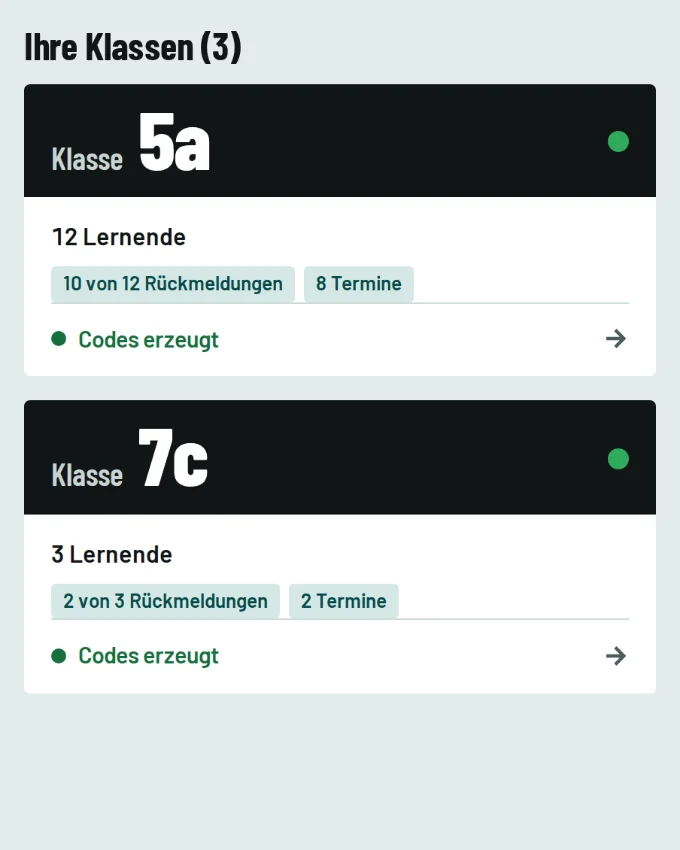
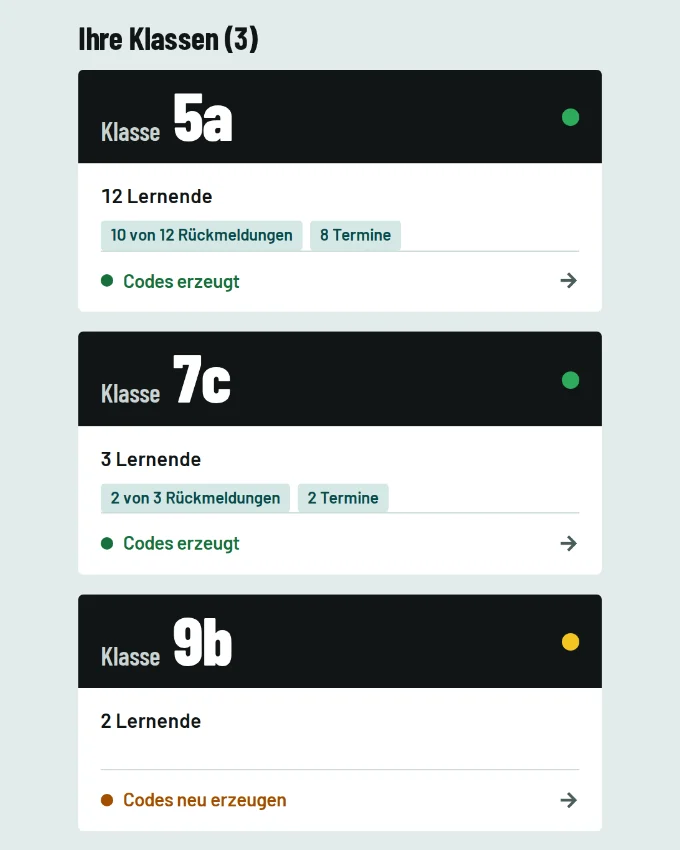
Karussell: ganze Bausteine statt Anschnitte
Kalender, Klassenübersicht und Tabelle der Lernenden werden als ganzer Baustein
aufgenommen (Kalenderkarte; alle drei Klassenschilder samt Überschrift; die ersten
beiden Einträge der Tabelle) und mittig auf die Farbe ihres Randes gesetzt
(toWebp-Modus „center“) – keine leeren Restflächen oder halben Einträge mehr.
Der Ausschnitt des Elternbriefs im Karussell zeigt die ganze Textbreite, damit der
gelbe Kasten vollständig bleibt; das Feld über dem Termin-Schlüssel deckt dessen
ersten Buchstaben ganz ab. Alternativtext des Kalenders an das Bild angepasst.

Claude-Session: https://claude.ai/code/session_0158mRK3KkWGA5jcqo5STFkn

diff --git a/js/views/start.js b/js/views/start.js
@@ -233,7 +233,7 @@ function appointmentPlate([time, name], i) {
 function stations(withMailbox) {
   return [
     ['Zuerst registrieren', 'Name, Geburtsdatum und E-Mail-Adresse eintragen. Sie erhalten sofort eine PDF-Datei mit Ihrem Registrierungscode.', 'registriert', 'Registrierung abgeschlossen: Registrierungscode und Lehrkräftecode in gelben Kästen'],
-    ['Dann den Tag anlegen', 'Tage im Kalender antippen, Uhrzeiten, Adresse der Schule und Terminlänge festlegen.', 'kalender', 'Kalender mit zwei ausgewählten Tagen und den Uhrzeiten daneben'],
+    ['Dann den Tag anlegen', 'Tage im Kalender antippen, Uhrzeiten, Adresse der Schule und Terminlänge festlegen.', 'kalender', 'Kalender mit zwei ausgewählten Tagen im November'],
     ['Klassen anlegen', 'Jede Klasse bekommt ein eigenes Schild und zeigt, wie weit sie ist.', 'klassen', 'Klassenübersicht mit Schildern für die Klassen 5a, 7c und 9b'],
     ['Lernende eintragen', 'Namen eintippen oder aus einer Liste einfügen. Für jedes Kind entsteht ein Code.', 'tabelle', 'Tabelle der Lernenden mit Codes und den freien Zeiten der Eltern'],
     ['Briefe mitgeben', 'Ein DIN-A4-Blatt pro Kind, mit QR-Code und dem gelben Kasten zum Anmelden.', withMailbox ? 'elternbrief' : 'elternbrief-email', 'Ausschnitt aus einem Elternbrief mit dem gelben Kasten'],
